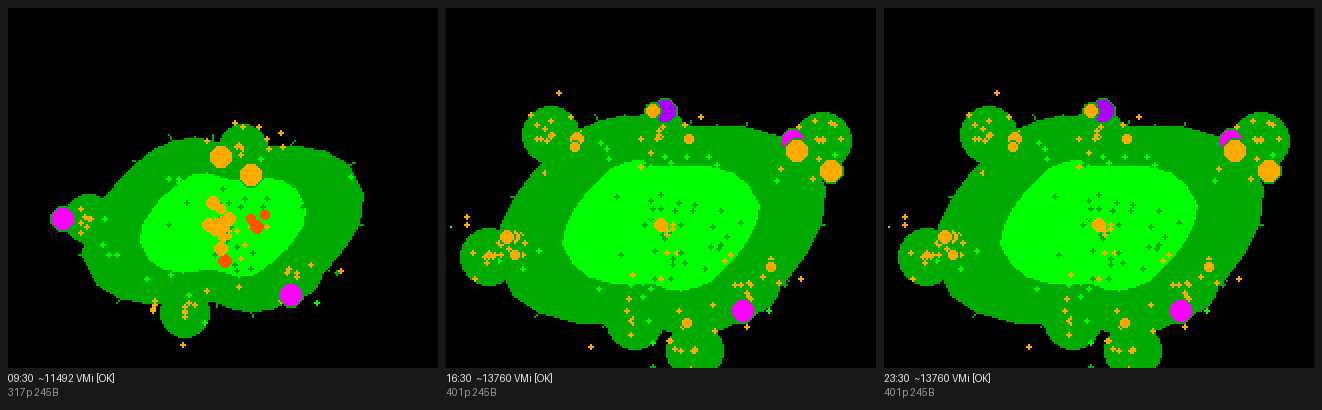
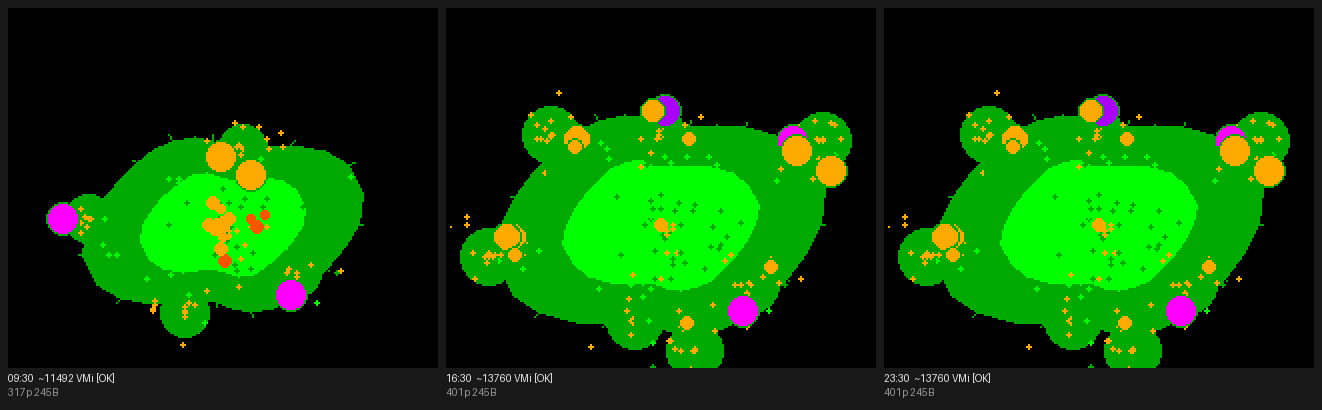
two-worlds V2: enlarge episode beads (sandbox WIP, pending review)
Bump episode fruiting-bead size in the moss_grove parity sketch:
2+mag/16 (cap 4) -> 3+mag/12 (cap 6), then the existing 1.25x scale, so
beads read larger and respond a bit more to episode magnitude. Sandbox-
only; not yet ported to MossGrove.mc / validated on the sim (awaiting
sign-off alongside the larger activity clusters). Peak ~13.8k VM-instr/
frame (heavy), under the ~25k watchdog.

Claude-Session: https://claude.ai/code/session_013ZYU1FhJF8SVMrxkyMAnxe

diff --git a/sketches/algos/moss_grove.py b/sketches/algos/moss_grove.py
@@ -187,9 +187,9 @@ class MossGrove:
             if ink <= 0:
                 break
             mag = rec.emag[e]
-            bead = 2 + idiv(mag, 16)
-            if bead > 4:
-                bead = 4
+            bead = 3 + idiv(mag, 12)
+            if bead > 6:
+                bead = 6
             bead = scl(bead)
             if ntuft > 0:
                 t = imod(hash16(seed, e, 41), ntuft)
